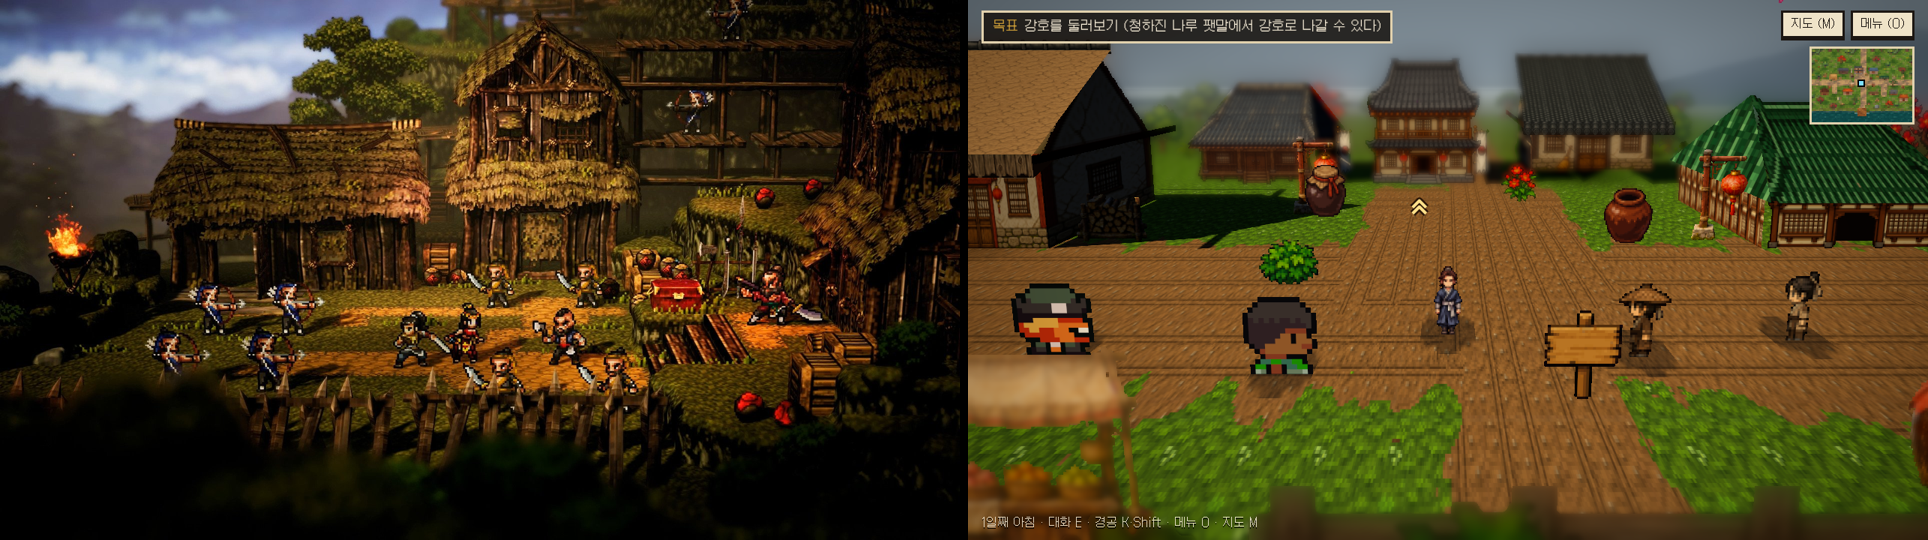
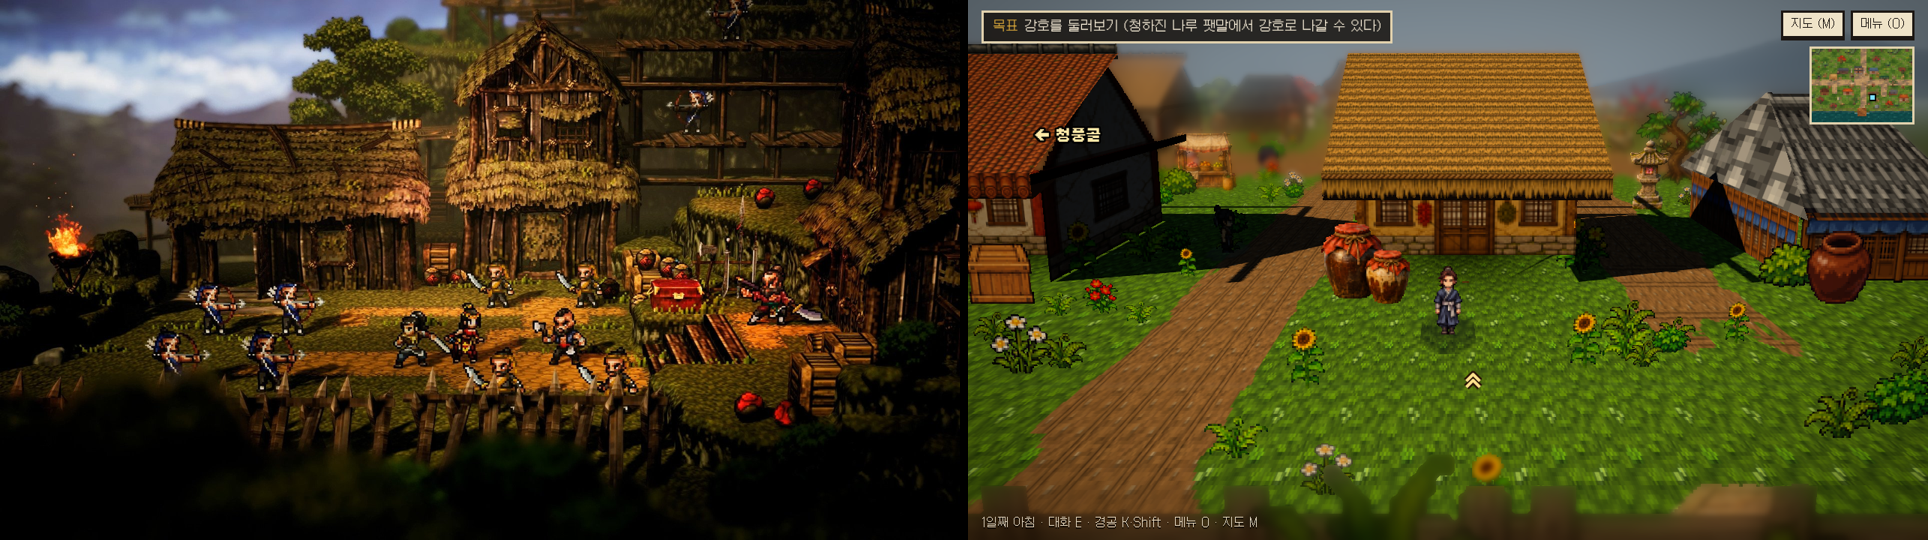
새 화면: 강물 잔물결, 예전 인물 폭 줄이기, 집 문 옆 살림 소품, 빈 풀밭에 풀 포기, 밤 달빛을 푸르게
Claude-Session: https://claude.ai/code/session_01UsE88bAfeaBtXwiPKmrpyg

diff --git a/js/hd2d.js b/js/hd2d.js
@@ -26,7 +26,7 @@ const TIMES = {
   morning: { sun: [.82, .38, .3], sunC: '#ffe0b4', sunI: 4, sky: '#8ea8d8', gnd: '#3a3628', hemI: .4, con: 1.15, fog: '#d4dae2', skyT: '#8fb4e6', mtn: '#7d8fa8', tint: [.99, 1, 1.03], expo: 1.02, sat: 1, lamp: 0 },
   day: { sun: [-.74, .5, .3], sunC: '#fff0d4', sunI: 4.6, sky: '#98b4e4', gnd: '#3a3024', hemI: .34, con: 1.22, fog: '#cdd6da', skyT: '#7fa6dc', mtn: '#7c8c9a', tint: [1.01, 1, .98], expo: 1, sat: 1.06, lamp: 0 },
   evening: { sun: [-.94, .12, .2], sunC: '#ff8a3a', sunI: 4.6, sky: '#5068a8', gnd: '#1c1a24', hemI: .75, fog: '#a58ca4', skyT: '#4c5c9c', mtn: '#4e4a6c', tint: [.98, .97, 1.04], expo: 1, sat: 1.08, lamp: .55 },
-  night: { sun: [-.4, .75, -.15], sunC: '#8aa4ff', sunI: .85, sky: '#2c4080', gnd: '#0c0e18', hemI: .5, fog: '#141c3c', skyT: '#0a1028', mtn: '#1a2240', tint: [.82, .92, 1.15], expo: 1, sat: .9, lamp: 1.2 },
+  night: { sun: [-.4, .75, -.15], sunC: '#7f9cff', sunI: 1.3, sky: '#3a54a8', gnd: '#10142a', hemI: .62, fog: '#141c3c', skyT: '#0a1028', mtn: '#1a2240', tint: [.74, .88, 1.3], expo: 1.05, sat: .8, lamp: 1.2 },
 };
 
 export const HD = {
@@ -306,6 +306,31 @@ function terrain(m, gt) {
 }
 
 // ── 지도 ──
+// 물(HG2 그림이 오기 전 코드로): 물 칸(2)마다 판을 깔고, 잔물결이 움직이며 하늘빛이 비치게 색을 섞는다. 빛과 그림자는 Lambert 그대로 받는다
+let waterM = null; const WU = { uT: { value: 0 }, uSky: { value: null }, uDeep: { value: null } };
+function waterMat() {
+  if (waterM) return waterM; WU.uSky.value = new T.Color('#9cc0e8'); WU.uDeep.value = new T.Color('#1f4a52');
+  waterM = new T.MeshLambertMaterial({ color: '#ffffff', transparent: true, opacity: .93 });
+  waterM.onBeforeCompile = s => { Object.assign(s.uniforms, WU);
+    s.vertexShader = 'varying vec3 vWp;\n' + s.vertexShader.replace('#include <project_vertex>', '#include <project_vertex>\n vWp = (modelMatrix * vec4(transformed, 1.)).xyz;');
+    s.fragmentShader = 'varying vec3 vWp; uniform float uT; uniform vec3 uSky, uDeep;\n' + s.fragmentShader.replace('#include <map_fragment>', `
+      vec2 q = floor(vWp.xz / vec2(1.2, 1.2 * 4.4)) * vec2(.09, .09 * 4.4 * 1.6);  // 도트 굵기로 끊어 잰다. 물결은 옆으로 긴 줄
+      float w1 = sin(q.x * .9 + q.y * 2.6 + uT * 1.6) + sin(q.x * 1.9 - q.y * 3.3 - uT * 1.2) * .8 + sin(q.x * 3.7 + q.y * 5.1 + uT * 2.1) * .5;
+      float rip = smoothstep(1.7, 2.1, w1), dark = smoothstep(-.8, -2.2, w1);
+      float far = smoothstep(0., 600., length(vWp.xz - cameraPosition.xz));
+      vec3 c = mix(uDeep, uSky, .38 + far * .3); c = mix(c, uSky * 1.25, rip * .75); c *= 1. - dark * .25;
+      diffuseColor.rgb *= c;`); };
+  return waterM;
+}
+function waterMesh(m) {
+  const P = [], N = [], z = y => y * TS * ZS;
+  for (let y = 0; y < m.h; y++) for (let x = 0; x < m.w; x++) { if (m.g[y][x] !== 2) continue;
+    const h = m.hgt ? Math.min(...corners4(m, x, y)) + .4 : .25, x0 = x * TS, x1 = x0 + TS + .02, z0 = z(y), z1 = z(y + 1) + .02;
+    for (const v of [[x0, z1], [x1, z1], [x1, z0], [x0, z1], [x1, z0], [x0, z0]]) { P.push(v[0], h, v[1]); N.push(0, 1, 0); } }
+  if (!P.length) return null; const g = new T.BufferGeometry(); g.setAttribute('position', new T.Float32BufferAttribute(P, 3)); g.setAttribute('normal', new T.Float32BufferAttribute(N, 3));
+  const o = new T.Mesh(g, waterMat()); o.receiveShadow = true; o.renderOrder = 1; return o;
+}
+let water = null;
 let buildMs = 0;
 function setMap(m) {
   if (curMap === m) return; curMap = m; const t0 = performance.now();
@@ -319,6 +344,7 @@ function setMap(m) {
   if (m.hgt) ground = terrain(m, gt);  // 높낮이가 있는 지도: 칸마다 높이대로 들고 단 사이에 축대를 세운다
   else { ground = new T.Mesh(new T.PlaneGeometry(Wm, Dm), sharpen(new T.MeshLambertMaterial({ map: gt }))); ground.rotation.x = -Math.PI / 2; ground.position.set(Wm / 2, 0, Dm / 2); }
   ground.receiveShadow = true; scene.add(ground);
+  if (water) { scene.remove(water); water.geometry.dispose(); } water = art() ? waterMesh(m) : null; if (water) scene.add(water);
   // 지도 밖: 가장자리 땅빛으로 넓게 깔아 빈 곳이 안 보이게
   const ed = gx.getImageData(0, 0, gc.width, 8).data; let r = 0, g = 0, b = 0, n = 0; for (let i = 0; i < ed.length; i += 16) { r += ed[i]; g += ed[i + 1]; b += ed[i + 2]; n++; }
   if (!skirt) { skirt = new T.Mesh(new T.PlaneGeometry(1, 1), new T.MeshLambertMaterial()); skirt.rotation.x = -Math.PI / 2; skirt.receiveShadow = true; scene.add(skirt); }
@@ -335,6 +361,17 @@ function setMap(m) {
     const M = matOf(t), o = new T.Mesh(GEO.get(gk), M.m); o.customDepthMaterial = M.d; o.position.set(s.x + w / 2, hAt(m, s.x + w / 2, z - 1), z * ZS + k * .003);
     o.castShadow = !s.flat; o.receiveShadow = true; o.userData = { s, w, h, M, t, owner: o, flat: s.flat, shared: true }; propG.add(o);
   });
+  // 풀 포기(새 화면만, 막힘 없음): 빈 풀밭 칸에 풀과 꽃을 흩뿌려 빈 땅이 넓게 보이지 않게. 길, 문 앞, 소품 둘레는 비운다. 그림마다 한 덩어리로 합쳐 그리는 횟수를 줄인다
+  if (art()) { const DK = ['fern1', 'fern2', 'flower3', 'fern1', 'flower4', 'fern2', 'bush4', 'flower1'], hs = (a, b) => { let h = (a * 374761393 + b * 668265263) | 0; h = (h ^ (h >>> 13)) * 1274126177 | 0; return ((h ^ (h >>> 16)) >>> 0) / 4294967296; };
+    const near = (px, py) => m.stamps.some(q => { const S = STAMPS[q.name]; return S && px > q.x - 6 && px < q.x + S[3] * (q.sc || 1) + 6 && py > q.y + S[4] * .4 - 4 && py < q.base + 8; }) || m.portals.some(q => px > q.x - 12 && px < q.x + q.w + 12 && py > q.y - 6 && py < q.y + q.h + 20);
+    const B = new Map();
+    for (let y = 0; y < m.h; y++) for (let x = 0; x < m.w; x++) for (let j = 0; j < 3; j++) { if (m.g[y][x] !== 0 || hs(x * 7 + j, y * 13) > .7) continue;
+      const px = (x + hs(x, y * 3 + j)) * TS, py = (y + hs(x * 5 + j, y)) * TS; if (near(px, py) || m.g[Math.floor(py / TS)]?.[Math.floor(px / TS)] !== 0) continue;
+      const k = DK[Math.floor(hs(x * 3, y * 11 + j) * DK.length)], t = stampTex(k), st = STAMPS[k]; if (!t || !st) continue; const sc = .45 + hs(y, x + j) * .3, w = st[3] * sc, h = st[4] * sc * HS, y0 = hAt(m, px, py), z = (py + .5) * ZS;
+      if (!B.has(t)) B.set(t, { P: [], U: [], I: [] }); const b = B.get(t), n = b.P.length / 3;
+      b.P.push(px - w / 2, y0, z, px + w / 2, y0, z, px + w / 2, y0 + h, z, px - w / 2, y0 + h, z); b.U.push(0, 0, 1, 0, 1, 1, 0, 1); b.I.push(n, n + 1, n + 2, n, n + 2, n + 3); }
+    for (const [t, b] of B) { const g = new T.BufferGeometry(); g.setAttribute('position', new T.Float32BufferAttribute(b.P, 3)); g.setAttribute('uv', new T.Float32BufferAttribute(b.U, 2)); g.setAttribute('normal', new T.Float32BufferAttribute(b.P.map((_, i) => i % 3 === 1 ? 1 : 0), 3)); g.setIndex(b.I);
+      const o = new T.Mesh(g, matOf(t).m); o.receiveShadow = true; o.userData = { deco: true }; propG.add(o); } }
   // 등불 자리: 문 위, 등롱, 객잔 기
   m._lamps = [...LAMPX, ...m.portals.filter(q => q.door && !LAMPX.some(l => Math.abs(l[0] - q.x - q.w / 2) < 30 && Math.abs(l[1] - q.y) < 12)).map(q => [q.x + q.w / 2, q.y - 2, 26]), ...m.stamps.filter(s => /lantern|banner|censer|v_lamp|v_stonelamp/.test(s.name)).map(s => { const st = STAMPS[s.name]; return [s.x + st[3] * (s.name === 'v_lamppost' ? .7 : .5), s.base + 1, st[4] * (s.name === 'v_lamppost' ? .6 : s.name === 'v_stonelamp' ? .6 : .7)]; })]; LAMPX.length = 0;
   camT.set(-1, 0, 0);  // 다음 장면에서 카메라를 바로 주인공에게
@@ -343,15 +380,17 @@ function setMap(m) {
 
 // ── 인물 ──
 const pool = []; let used = 0;
-function actor(t, sx, sy, sw, sh, flip, x, y, size, lift = 0) {
+function actor(t, sx, sy, sw, sh, flip, x, y, size, lift = 0, wx = 1) {
   let o = pool[used];
   if (!o) { const g = new T.PlaneGeometry(1, 1); g.translate(0, .5, 0); const n = g.attributes.normal; for (let i = 0; i < 4; i++) n.setXYZ(i, 0, 1, 0); o = new T.Mesh(g); o.castShadow = true; o.receiveShadow = true; pool.push(o); actG.add(o); }
   used++; const M = matOf(t); o.material = M.m; o.customDepthMaterial = M.d; o.visible = true;
   const iw = t.image.width, ih = t.image.height, u0 = sx / iw, u1 = (sx + sw) / iw, v1 = 1 - sy / ih, v0 = 1 - (sy + sh) / ih, uv = o.geometry.attributes.uv;
   const a = flip ? u1 : u0, b = flip ? u0 : u1; uv.setXY(0, a, v1); uv.setXY(1, b, v1); uv.setXY(2, a, v0); uv.setXY(3, b, v0); uv.needsUpdate = true;
-  o.scale.set(size, size * HS, 1); o.position.set(x, lift * HS + hAt(curMap, x, y), (y + 1) * ZS + .5);  // 2D는 발끝을 y+1에 그렸다. 같은 줄의 소품보다 반 점 앞
+  o.scale.set(size * wx, size * HS, 1); o.position.set(x, lift * HS + hAt(curMap, x, y), (y + 1) * ZS + .5);  // 2D는 발끝을 y+1에 그렸다. 같은 줄의 소품보다 반 점 앞
   return o;
 }
+// 예전 2.5등신 인물(16점 칸): 새 인물 그림이 오기 전까지 키는 주인공과 같게(칸 16점 중 사람 15점), 폭만 조금 줄여 덜 튀게
+const OLDK = CHAR / 15;
 let blobT = null; const blobs = []; let usedB = 0;
 function blob(x, y, s) {
   if (!blobT) { const im = IMG['chars/_Shadow']; if (!im) return; blobT = new T.Texture(im); blobT.colorSpace = T.SRGBColorSpace; blobT.needsUpdate = true; }
@@ -366,7 +405,7 @@ function frameOf(key, dirCol, row, diag) {
   const f = 16 * (img.hd || 1), r = Math.min(row, Math.floor(img.height / f) - 1); return { t: sheetTex(key), sx: dirCol * f, sy: r * f, s: f, flip: false };
 }
 function syncActors(F) {
-  used = 0; usedB = 0; const p = F.p, S = G.S, put = (key, dir, row, x, y, o = {}) => { const fr = frameOf(key, dir, row, o.diag); if (!fr || !fr.t) return; actor(fr.t, fr.sx, fr.sy, fr.s, fr.s, fr.flip, x, y, o.size || 16, o.lift || 0); blob(x, y, o.size ? o.size / 16 : 1); };
+  used = 0; usedB = 0; const p = F.p, S = G.S, put = (key, dir, row, x, y, o = {}) => { const fr = frameOf(key, dir, row, o.diag); if (!fr || !fr.t) return; actor(fr.t, fr.sx, fr.sy, fr.s, fr.s, fr.flip, x, y, (o.size || 16) * OLDK, o.lift || 0, .84); blob(x, y, o.size ? o.size / 16 : 1); };
   for (const n of F.npcs) { if (n.hide > 0) continue; if (n.stamp) { const t = stampTex(n.stamp); if (t) actor(t, 0, 0, t.image.width, t.image.height, false, n.x, n.y, 16); continue; }
     const key = n.spr.includes('/') ? n.spr : 'chars/' + n.spr, yt = key === 'chars/Princess' && previewTex('yun'); if (yt) { actor(yt, n.dir * 56, (n.pose ?? Math.floor(n.walk || 0) % 4) % 4 * 56, 56, 56, false, n.x, n.y, CHAR * 56 / 48); blob(n.x, n.y, 1); continue; } put(key, n.dir, n.pose ?? Math.floor(n.walk || 0) % 4, n.x, n.y, { diag: n.walk ? n.diag : undefined, size: n.size, lift: n.hopT > 0 ? Math.sin(n.hopT / .4 * Math.PI) * 2.5 : 0 }); }
   for (const r of F.roam) if (!r.gone) { const key = r.spr.includes('/') ? r.spr : 'chars/' + r.spr; put(key, r.dir, Math.floor(r.walk || 0) % 4, r.x, r.y, { size: r.size }); }
@@ -455,6 +494,7 @@ function foreground() {
 const timeOf = () => HD.opt.time === 'auto' ? (G.S?.flags?.night ? 'night' : 'day') : HD.opt.time;
 function light() {
   const L = TIMES[timeOf()];
+  if (waterM) { WU.uT.value = performance.now() / 1000; WU.uSky.value.set(L.skyT); WU.uDeep.value.set(L.lamp ? '#0e2430' : '#1f4a52'); }
   sun.color.set(L.sunC); sun.intensity = L.sunI; hemi.color.set(L.sky); hemi.groundColor.set(L.gnd); hemi.intensity = L.hemI;
   scene.fog.color.set(L.fog); scene.fog.near = dist * 3; scene.fog.far = dist * 13; backdrop(L);
   const sz = HD.opt.fx === 'high' ? 4096 : HD.low ? 1024 : 2048; if (sun.shadow.mapSize.x !== sz) { sun.shadow.mapSize.set(sz, sz); sun.shadow.map?.dispose(); sun.shadow.map = null; }

diff --git a/js/maps.js b/js/maps.js
@@ -138,6 +138,17 @@ class MapDef {
       out: for (let d = 2; d <= 48; d += 2) for (const [dx, dy] of [[0, -d], [0, d], [-d, 0], [d, 0]]) { const t = { x: r.x + dx, y: r.y + dy, w: r.w, h: r.h }; if (!onRoad(t) && !hits(t) && t.x >= 0 && t.y >= 0) { r.x += dx; r.y += dy; st.x += dx; st.y += dy; st.base += dy; break out; } } }
     return this;
   }
+  // 집마다 문 옆에 살림 소품 하나(독, 장작, 상자 따위). 문 앞(28점 폭)과 길, 다른 막힘은 피하고, 둘 데가 없으면 놓지 않는다
+  dress(list = ['v_jars', 'v_wood', 'jar', 'v_crates', 'pot', 'box']) {
+    const busy = (r, own) => this.solids.some(o => o !== own && o.x < r.x + r.w + 2 && o.x + o.w + 2 > r.x && o.y < r.y + r.h + 2 && o.y + o.h + 2 > r.y)
+      || this.portals.some(q => q.x < r.x + r.w + 2 && q.x + q.w + 2 > r.x && q.y < r.y + r.h + 10 && q.y + q.h + 10 > r.y)
+      || [[r.x, r.y], [r.x + r.w, r.y], [r.x, r.y + r.h], [r.x + r.w, r.y + r.h]].some(([x, y]) => { const v = this.g[Math.floor(y / TS)]?.[Math.floor(x / TS)]; return v === undefined || v === 1 || v === 2; });
+    this.stamps.filter(st => DOORED.includes(st.name) && !st.iso).forEach((st, i) => { const H = STAMPS[st.name], cx = st.x + H[3] / 2, by = st.y + H[4];
+      for (const side of i % 2 ? [1, -1] : [-1, 1]) { const name = list[i % list.length], S = STAMPS[name], px = Math.round(cx + side * (H[3] / 2 - S[3] / 2 + 4) - S[3] / 2), py = by + 3 - S[4];
+        if (Math.abs(px + S[3] / 2 - cx) - S[3] / 2 < 11) continue; const sol = { x: px + S[5], y: py + S[6], w: S[7], h: S[8] }; if (busy(sol, st.sol)) continue;
+        this.put(name, 0, 0, { dx: px, dy: py }); break; } });
+    return this;
+  }
   // (px, py)가 막혔으면 가장 가까운 빈 자리(점 단위)를 돌려준다. 좁힌 지도에서 사람과 들어오는 자리를 비켜 세울 때 쓴다
   freeNear(px, py) { if (!this.blocked(px, py)) return [px, py]; for (let r = 4; r <= 64; r += 4) for (let a = 0; a < 16; a++) { const x = px + Math.cos(a / 8 * Math.PI) * r, y = py + Math.sin(a / 8 * Math.PI) * r; if (!this.blocked(x, y)) return [x, y]; } return [px, py]; }
   blocked(px, py, w = 9, h = 5) {
@@ -216,7 +227,7 @@ export function buildMaps() {
   }
   m.fill(21, 28, 4, 4, 4);
   { const K = m.k * TS; m.solids.push({ x: 21 * K - 4, y: 29 * K, w: 4, h: 3 * K }, { x: 25 * K, y: 29 * K, w: 4, h: 3 * K }, { x: 21 * K, y: 32 * K, w: 4 * K, h: 8 }); }
-  m.terrace(0, 29, 46, 5, -2).terrace(21, 29, 4, 3, -1).stairs(21, 28, 4, 1).heightEdges().clearRoads();  // 나루터 높낮이: 강물은 두 단, 나루 판은 한 단 아래, 둑에서 계단으로 내려간다
+  m.terrace(0, 29, 46, 5, -2).terrace(21, 29, 4, 3, -1).stairs(21, 28, 4, 1).heightEdges().clearRoads().dress();  // 나루터 높낮이: 강물은 두 단, 나루 판은 한 단 아래, 둑에서 계단으로 내려간다
   m.exit(0, 14, 1, 4, 'valley', 37.5, 15.5, 2, { when: 'burned', lock: '서쪽 청풍골은 나중에 가 보자.' });
   m.label(3.5, 13.2, '← 청풍골');
   m.place(23, 13.8, '광장').place(23, 27, '나루터').place(13, 24.2, '복덕방');

diff --git a/docs/hd2d-webgl.md b/docs/hd2d-webgl.md
@@ -114,3 +114,9 @@
 - **앞가림**: 카메라 바로 앞에 덤불(bush1~4)과 HK2 울타리 판을 세운다.
   - 화면 아래 4분의 1쯤까지만 올라오게 키를 맞춘다.
   - 색을 낮추고 가까운 흐림을 세게 줘서 뭉개지게 한다(임시).
+- **묶음 1 나머지**:
+  - 물(새 화면만): 물 칸마다 판을 깔고 옆으로 긴 잔물결이 움직인다. 하늘빛은 멀수록 많이 섞는다. 밤에는 더 짙다.
+  - 예전 2.5등신 인물: 키는 주인공과 같고 폭만 0.84배로 줄였다. 새 인물 그림이 오기 전까지 쓰는 임시 방편이다.
+  - `MapDef.dress()`: 집마다 문 옆에 독, 장작, 상자 하나. 문 앞과 길과 다른 막힘은 피한다. 2D에도 보이고 막힘도 있다.
+  - 풀 포기(새 화면만, 막힘 없음): 빈 풀밭 칸마다 풀과 꽃을 흩뿌리고, 그림마다 한 덩어리로 합쳐 그린다.
+  - 밤: 달빛을 더 푸르게 하고 조금 밝혔다.
